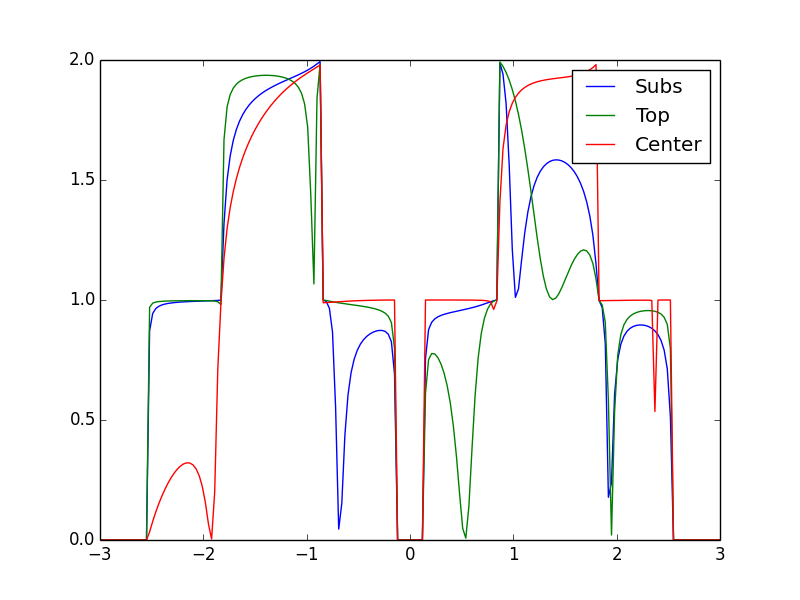
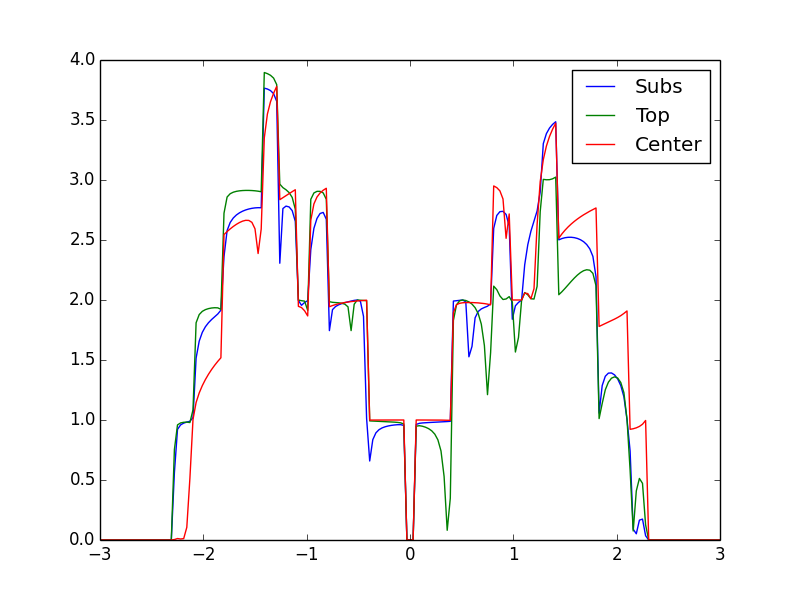
Added some GFs to TestRoutines

diff --git a/TestRoutines.py b/TestRoutines.py
@@ -3,10 +3,25 @@ from numpy.linalg import norm
 from Recursive import *
 
 
-def gSubs1(nE,m,n,E):
-  s = 0
-  g = gRib_Arm(nE,m,n,m,n,s,E)
+def gGNRSubs1(nE,m,n,E):
+  g = gRib_Arm(nE,m,n,m,n,0,E)
   return Dyson1(g,eps_imp)
+
+
+def gGNRTop1(nE,m,n,E):      
+  """Calculates the onsite GF of a top adsorbed impurity in a GNR"""
+  # Introduce the connecting GFs
+  g = np.zeros((2,2),dtype=complex)
+  g[0,0] = gRib_Arm(nE,m,n,m,n,0,E)	# Connecting site
+  g[1,1] = 1.0/(E-eps_imp)		# Impurity site
+  
+  V = np.zeros([2,2],dtype=complex)	# Connecting perturbation
+  V[0,1] = V[1,0] = tau
+  
+  G = Dyson(g,V)
+  
+  # Return the part of the matrix that governs the impurity behaviour. 
+  return G[1,1]
 
 
 def GMx2Subs(nE,mI,nI,mP,nP,s,E):
@@ -51,31 +66,16 @@ def GMx1Center(nE,mC,nC,E):
   gMx[n-1,n-1] = 1.0/(E-eps_imp)	# Final site is that of the impurity
     
   V = np.zeros([n,n],dtype=complex)
-  V[:n-1,n-1] = tau
-  V[n-1,:n-1] = tau
+  V[0,n-1] = V[1,n-1] = V[3,n-1] = V[4,n-1] = tau1
+  V[n-1,0] = V[n-1,1] = V[n-1,3] = V[n-1,4] = tau1
+  
+  V[2,n-1] = V[5,n-1] = tau2
+  V[n-1,2] = V[n-1,5] = tau2
   
   GMx = Dyson(gMx,V)
   
   return GMx
 
-
-def GMxSubsRec(N,ImpList,E):
-  """Calculates the GF mx of a strip in an AGNR in the presence of subsitutional impurities"""
-  gL,gR,VLR,VRL = Leads(N,E)
-  H = HArmStrip(N,SubsList=ImpList)
-  gC = gGen(E,H)
-  gL = RecAdd(gL,gC,VLR,VRL)
-  g = RecAdd(gR,gL,VRL,VLR)
-  return g
-
-
-def GMxCenterRec(N,ImpList,E):
-  gL,gR,VLR,VRL = Leads(N,E)
-  H = HArmStrip(N,CenterList=ImpList)
-  gC = gGen(E,H)[:2*N,:2*N]
-  gL = RecAdd(gL,gC,VLR,VRL)
-  g = RecAdd(gR,gL,VRL,VLR)
-  return g
 
 
 def GMxCenterRec2(N,p,ImpList,E):
@@ -93,16 +93,56 @@ def GMxCenterRec2(N,p,ImpList,E):
   return g
 
 
-if __name__ == "__main__":  
-  nE = 9
-  mC, nC = 1,0
-  Elist = np.linspace(-3.0+1j*eta,3.0+1j*eta,201)
-  Glist = [-GMx1Center(nE,mC,nC,E)[6,6].imag/pi for E in Elist]
-  pl.plot(Elist,Glist)
-  pl.show()
-    
-  
+def GMxSubsRec(N,ImpList,E):
+  """Gets the GF of a strip containing a single substitutional impurity"""
+  gL,gR,VLR,VRL = Leads(N,E)
+  HM = HArmStripSubs(N,ImpList)
+  gM = gGen(E,HM)
+  gM = RecAdd(gL,gM,VLR,VRL)
+  gM = RecAdd(gR,gM,VRL,VLR)
+  return gM
 
+
+def GMxTopRec(N,ImpList,E):
+  """Gets the GF of a strip containing a single top-adsorbed impurity"""
+  gL,gR,VLR,VRL = Leads(N,E)
+  gL = PadZeros(gL,(11,11))
+  gR = PadZeros(gR,(11,11))
+  VLR = PadZeros(VLR,(11,11))
+  VRL = PadZeros(VRL,(11,11))
+  HM = HArmStripTop(N,ImpList)
+  gM = gGen(E,HM)
+  gM = RecAdd(gL,gM,VLR,VRL)
+  gM = RecAdd(gR,gM,VRL,VLR)
+  return gM
+
+
+def GMxCenterRec(N,ImpList,E):
+  """Gets the GF of a strip containing a single center adsorbed impurity, cannot deal with interstitial sites"""
+  gL,gR,VLR,VRL = Leads(N,E)
+  gL = PadZeros(gL,(11,11))
+  gR = PadZeros(gR,(11,11))
+  VLR = PadZeros(VLR,(11,11))
+  VRL = PadZeros(VRL,(11,11))
+  HM = HArmStripCenter(N,ImpList)
+  gM = gGen(E,HM)
+  gM = RecAdd(gL,gM,VLR,VRL)
+  gM = RecAdd(gR,gM,VRL,VLR)
+  return gM
+
+
+if __name__ == "__main__":  
+  nE = 6
+  m,n = 1,0
+  Elist = np.linspace(-3.0+1j*eta,3.0+1j*eta,201)
+  DOSSlist = [-gGNRSubs1(nE,m,n,E).imag/pi for E in Elist]
+  DOSTlist = [-gGNRTop1(nE,m,n,E).imag/pi for E in Elist]
+  DOSClist = [-GMx1Center(nE,1,0,E)[6,6].imag/pi for E in Elist]
+  pl.plot(Elist.real,DOSSlist,label='Subs')
+  pl.plot(Elist.real,DOSTlist,label='Top')
+  pl.plot(Elist.real,DOSClist,label='Center')
+  pl.legend()
+  pl.show()
 
   
 

diff --git a/Recursive.py b/Recursive.py
@@ -29,7 +29,7 @@ def CumAv(l):
 
 def PadZeros(M,Msize):
   """Pads a real 2d array with zeros up to the specified size"""
-  temp = np.zeros(Msize)
+  temp = np.zeros(Msize,M.dtype)
   temp[:M.shape[0],:M.shape[1]] = M
   return temp
 
@@ -97,17 +97,15 @@ def HArmStripCenter(N,ImpList):
   for i,k in enumerate(ImpList):
     H[2*N+i,2*N+i] = eps_imp
     if k < N:
-      for j in range(3) + range(N,N+3):
-	if j in [0,2] + [N,N+2]:
-	  H[2*N+i,k+j] = H[k+j,2*N+i] = tau1
-	else:
-	  H[2*N+i,k+j] = H[k+j,2*N+i] = tau2
+      for j in [0,2,N,N+2]:
+	H[2*N+i,k+j] = H[k+j,2*N+i] = tau1
+      for j in [1,N+1]:
+	H[2*N+i,k+j] = H[k+j,2*N+i] = tau2
     if k > N:
-      for j in range(3):
-	if j in [0,2] + [N,N+2]:
-	  H[2*N+i,k+j] = H[k+j,2*N+i] = tau1
-	else:
-	  H[2*N+i,k+j] = H[k+j,2*N+i] = tau2
+      for j in [0,2]:
+	H[2*N+i,k+j] = H[k+j,2*N+i] = tau1
+      for j in [1]:
+	H[2*N+i,k+j] = H[k+j,2*N+i] = tau2
   return H
 
 
@@ -435,9 +433,9 @@ if __name__ == "__main__":
   #print VLR[2*N,:]
   
   
-  N = 5
+  N = 11
   BigImpList = [[0]]
-  
+
   Elist = np.linspace(-3.0,3.0,201)
   KSlist = [KuboSubs(N,E,BigImpList) for E in Elist]
   KTlist = [KuboTop(N,E,BigImpList) for E in Elist]

diff --git a/GF.py b/GF.py
@@ -268,8 +268,8 @@ def gSIZigtest(DA1,DA2,DZ,s_lat,E):		# You need to change the sublattice notatio
 
 
 if __name__ == "__main__":   
-  nE,m1,n1,m2,n2,s,E = 6,1,0,1,0,0
+  nE,s = 6,0
   Elist = np.linspace(-3.0+1j*eta,3.0+1j*eta,201)
-  DOSlist = [-gRib_Arm(nE,m1,n1,m2,n2,s,E).imag/pi for E in Elist]
+  DOSlist = [(-gRib_Arm(nE,1,0,1,0,s,E).imag/pi -gRib_Arm(nE,2,0,2,0,s,E).imag/pi -gRib_Arm(nE,3,0,3,0,s,E).imag/pi)/3.0 for E in Elist]
   pl.plot(Elist,DOSlist)
   pl.show()
